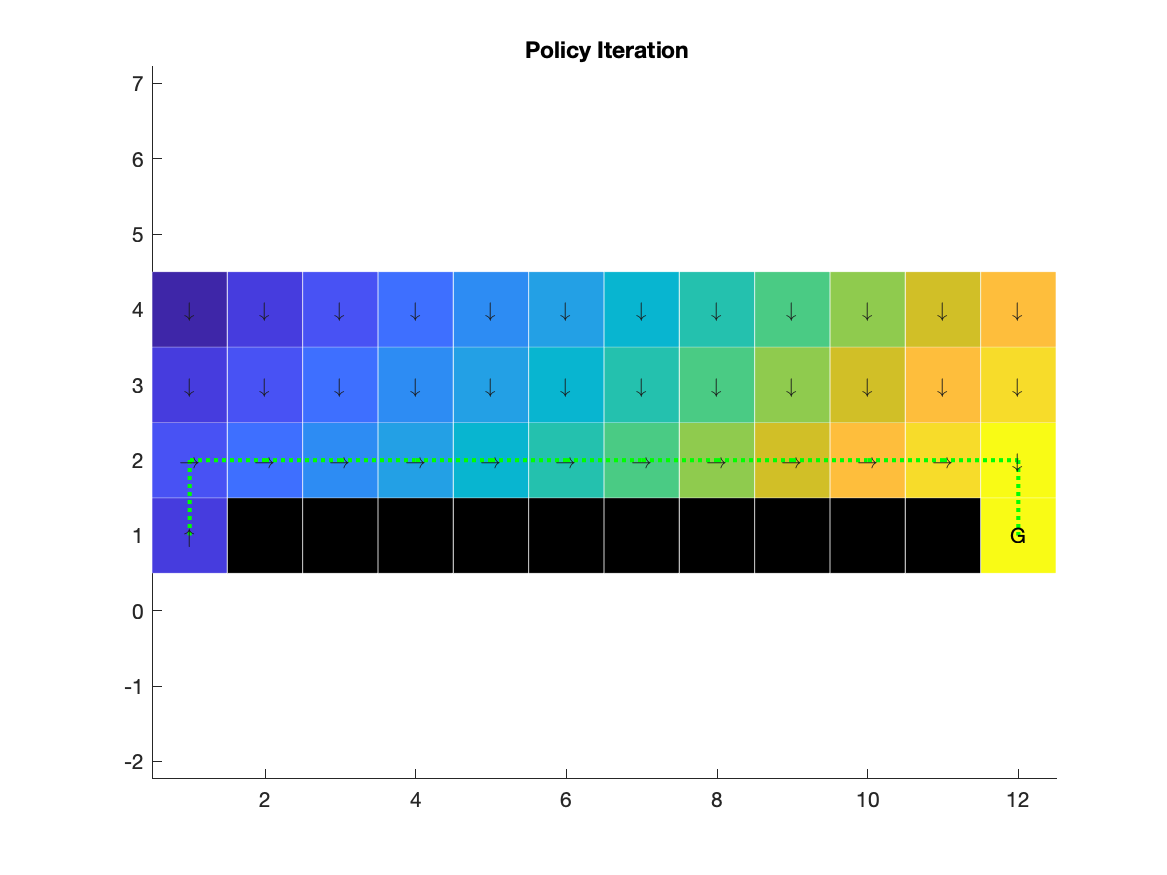
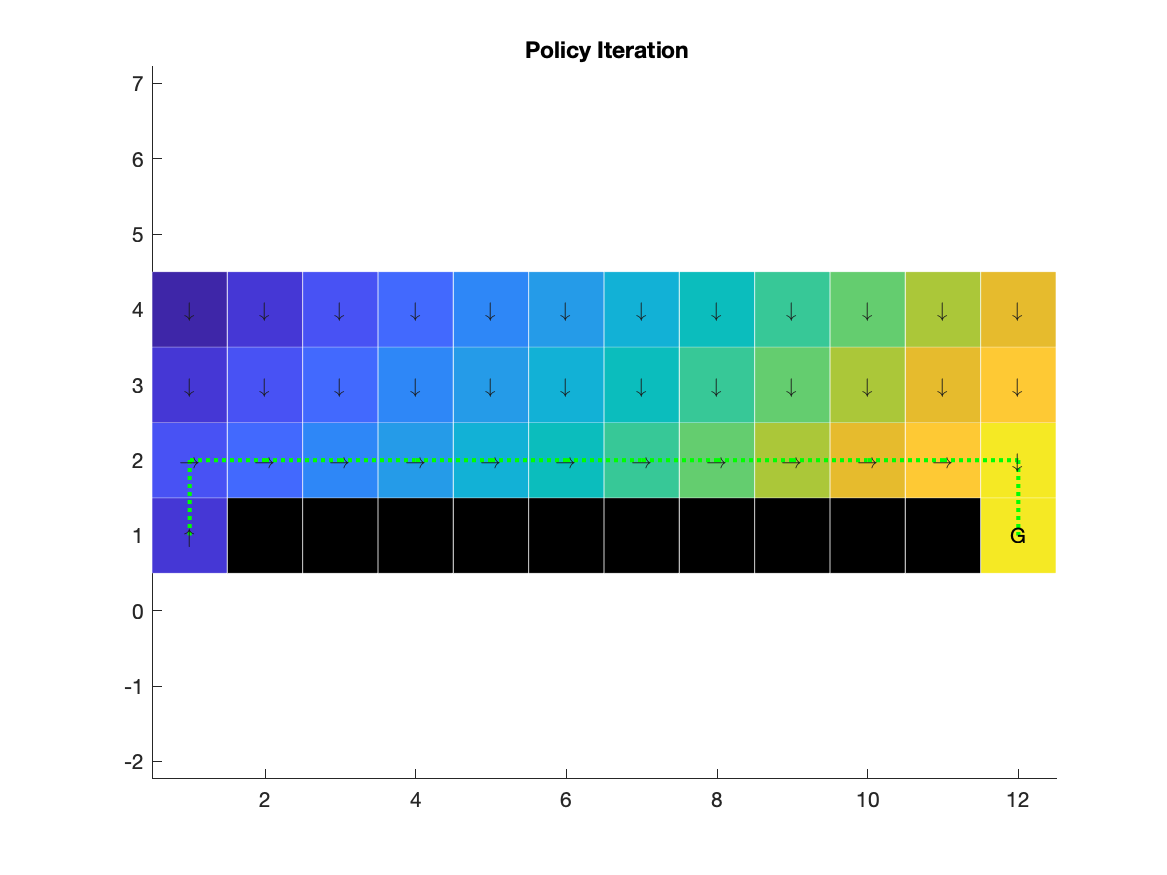
[gw]: MC and QL complete

Changed region(s): [[0.4319, 0.3086, 0.8638, 0.5863]]

diff --git a/aer1517_assignment2_files/p1_grid_world/algorithms/monte_carlo.m b/aer1517_assignment2_files/p1_grid_world/algorithms/monte_carlo.m
@@ -53,6 +53,12 @@ function [Q, policy_index] = ...
     % States
     STATES = mdp.STATES;
     ACTIONS = mdp.ACTIONS;
+    
+    % Start and end State 
+    s_start = world.user_defn.s_start;
+    s_goal = world.user_defn.s_goal;
+    s_start_index = state_index_lookup(STATES, s_start);
+    s_goal_index = state_index_lookup(STATES, s_goal);
 
     % Dimensionts
     num_states = size(STATES, 2);
@@ -65,37 +71,70 @@ function [Q, policy_index] = ...
     % Initialize Q
     Q = zeros(num_states, num_actions);
     
-    % [TODO] Initialize epsilon-soft policy
-    % policy = ...; % size: num_states x num_actions
+    % Initialize epsilon-soft policy
+    random_act_index = randi(num_actions, [num_states, 1]);
+    policy = zeros(num_states, num_actions);
+    for s = 1:1:num_states
+        selected_action = random_act_index(s);
+        policy(s, selected_action) = 1;
+    end
 
     %% On-policy Monte Carlo Algorithm (Section 2.9.3 of [1])
     for train_loop = 1:1:training_iterations
-        %% [TODO] Generate a training episode
-
-        while 
+        R = [];
+        episode_index = 0;
+        cur_state_index = randi(num_states);
+%         cur_state_index = s_start_index;
+        %% Generate a training episode
+%         while ( cur_state_index ~= s_start_index && ...
+%                 cur_state_index ~= s_goal_index && ...
+%                 episode_index < episode_length) || ...
+%                 episode_index < 1
+        while episode_index < episode_length
             episode_index = episode_index + 1;
-
             % Sample current epsilon-soft policy
-            action = ;
+            [action, soft_policy] = sample_es_policy(...
+                                    policy(cur_state_index, :), epsilon);
 
             % Interaction with environment
-            [next_state_index, ~, reward] = one_step_gw_model(world, cur_state_index, action, 1);
+            [next_state_index, ~, reward] = one_step_gw_model(world, ...
+                                            cur_state_index, action, 1);
 
             % Log data for the episode
-            % ...
+            R = [R; cur_state_index, action, reward];
+            
+            cur_state_index = next_state_index;
         end
 
+        % Cummulated Discounted Reward
+        prev_sum = 0;
+        R_cumu = R(:,3);
+        for it = size(R,1):-1:1
+            prev_sum = R_cumu(it) + gamma*prev_sum;
+            R_cumu(it) = prev_sum;
+        end
+        
         % Update Q(s,a)
-        % Q = ...;
+        Used = zeros(num_states, num_actions);
+        for it = 1: size(R,1)
+            if ~Used(R(it,1), R(it,2))
+                Q(R(it,1), R(it,2)) =  Q(R(it,1), R(it,2)) + ...
+                             omega * (R_cumu(it) -  Q(R(it,1), R(it,2)));
+                Used(R(it,1), R(it,2)) = 1;
+            end
+        end
 
-        %% [TODO] Update policy(s,a)
-        % policy = ...;
+        %% Update policy(s,a)
+        [~, pi] = max(Q,[],2);
+        policy = zeros(num_states, num_actions);
+        for s = 1:num_states
+            selected_action = pi(s);
+            policy(s, selected_action) = 1;
+        end
 
-        %% [TODO] Update the reward plot
-        % EpisodeTotalReturn = ...; % Sum of the reward obtained during the episode
+        %% Update the reward plot
+        EpisodeTotalReturn = sum(R(:, 3)); % Sum of the reward obtained during the episode
         plotter = UpdatePlot(plotter, EpisodeTotalReturn);
-        drawnow;
-        pause(0.1);
 
         %% Decrease the exploration
         % Set k_epsilon = 1 to maintain constant exploration
@@ -104,4 +143,42 @@ function [Q, policy_index] = ...
     
     % Return deterministic policy for plotting
     [~, policy_index] = max(policy, [], 2);
+    drawnow;
 end
+
+function [value, soft_policy] = sample_es_policy(policy, ep)
+    
+    size_u = length(policy);
+    soft_policy = policy;
+    cummu_dist = policy;
+    
+    for i = 1:size_u
+        if policy(i) == 1
+            soft_policy(i) = 1 - ep + ep/size_u;
+        else
+            soft_policy(i) = ep/size_u;
+        end
+        
+        if i > 1
+            cummu_dist(i) = soft_policy(i) + cummu_dist(i-1);
+        end
+    end
+    
+    rand_n = rand([1,1],'double');
+%     disp("Policy: " + num2str(soft_policy) + " Rand: " + num2str(rand_n));
+    
+    for i = 1:size_u
+        if rand_n <= cummu_dist(i)
+            value = i;
+            return
+        end
+    end
+    value = size_u;
+end
+
+    
+
+
+
+    
+

diff --git a/aer1517_assignment2_files/p1_grid_world/algorithms/q_learning.m b/aer1517_assignment2_files/p1_grid_world/algorithms/q_learning.m
@@ -69,40 +69,59 @@ function [Q, policy_index] = q_learning(world, epsilon, k_epsilon, omega, traini
     % Initialize Q
     Q = zeros(num_states, num_actions);
     
-    % [TODO] Initialize epsilon-soft policy
-    % policy = ...; % size: num_states x num_actions
+    % Initialize epsilon-soft policy
+    random_act_index = randi(num_actions, [num_states, 1]);
+    policy = zeros(num_states, num_actions);
+    for s = 1:1:num_states
+        selected_action = random_act_index(s);
+        policy(s, selected_action) = 1;
+    end
 
     %% Q-Learning Algorthim (Section 2.9 of [1])
     for train_loop = 1:1:training_iterations
         %% [TODO] Generate a training episode
-        % while ... % Episode termination criteria
-
+        R = [];
+        episode_index = 0;
+        cur_state_index = randi(num_states);
+        while episode_index < episode_length
+            episode_index = episode_index + 1;
             % Sample current epsilon-soft policy
-            % action = ...;
+            [action, soft_policy] = sample_es_policy(...
+                                    policy(cur_state_index, :), epsilon);
 
-            % Interaction with environment
-            % Note: 'next_state_noisy_index' below simulates state
+            % Interaction with environment% Note: 'next_state_noisy_index' below simulates state
             %       observarions corrupted with noise. Use this for
             %       Q-learning correspondingly for the last part of 
             %       Problem 2.2 (d)
             % [next_state_index, next_state_noisy_index, reward] = ...
             %    one_step_gw_model(world, cur_state_index, action, noise_alpha);
+            [next_state_index, ~, reward] = one_step_gw_model(world, ...
+                                            cur_state_index, action, 1);
 
             % Log data for the episode
-            % ...
+            R = [R; cur_state_index, action, reward];
 
             % Update Q(s,a)
-            % Q = ...;
-        % end
+            Q(cur_state_index, action) = Q(cur_state_index, action) +...
+              omega * (reward + gamma * max(Q(next_state_index, :)) -...
+                       Q(cur_state_index, action));
+            
+            cur_state_index = next_state_index;
+        end
 
         %% [TODO] Update policy(s,a)
-        % policy = ...;
+        [~, pi] = max(Q,[],2);
+        policy = zeros(num_states, num_actions);
+        for s = 1:num_states
+            selected_action = pi(s);
+            policy(s, selected_action) = 1;
+        end
 
         %% [TODO] Update the reward plot
-        % EpisodeTotalReturn = ...; %Sum of the reward obtained during the episode
+        EpisodeTotalReturn = sum(R(:, 3)); %Sum of the reward obtained during the episode
         plotter = UpdatePlot(plotter, EpisodeTotalReturn);
-        drawnow;
-        pause(0.1);
+%         drawnow;
+%         pause(0.1);
 
         %% Decrease the exploration
         %Set k_epsilon = 1 to maintain constant exploration
@@ -112,4 +131,34 @@ function [Q, policy_index] = q_learning(world, epsilon, k_epsilon, omega, traini
 
     % Return deterministic policy for plotting
     [~, policy_index] = max(policy, [], 2);
+end
+
+function [value, soft_policy] = sample_es_policy(policy, ep)
+    
+    size_u = length(policy);
+    soft_policy = policy;
+    cummu_dist = policy;
+    
+    for i = 1:size_u
+        if policy(i) == 1
+            soft_policy(i) = 1 - ep + ep/size_u;
+        else
+            soft_policy(i) = ep/size_u;
+        end
+        
+        if i > 1
+            cummu_dist(i) = soft_policy(i) + cummu_dist(i-1);
+        end
+    end
+    
+    rand_n = rand([1,1],'double');
+%     disp("Policy: " + num2str(soft_policy) + " Rand: " + num2str(rand_n));
+    
+    for i = 1:size_u
+        if rand_n <= cummu_dist(i)
+            value = i;
+            return
+        end
+    end
+    value = size_u;
 end

diff --git a/aer1517_assignment2_files/p1_grid_world/main_p1_gw.m b/aer1517_assignment2_files/p1_grid_world/main_p1_gw.m
@@ -129,15 +129,15 @@ plt_lp = visualize_gw_solution(world, v_lp, policy_lp, ...
 save(strcat(save_dir, 'lp_results.mat'), 'v_lp', 'policy_lp');
 saveas(plt_lp, strcat(save_dir, 'lp_plot.png'), 'png');
 
-%% Problem 2.1 (c): Monte Carlo
-% Instruction: Implement the on-policy Monte Carlo control algorithm (with
-% epsilon-soft policies) to solve the grid world algorithm
-% Reference: Section 2.9 of [1]
+% Problem 2.1 (c): Monte Carlo
+Instruction: Implement the on-policy Monte Carlo control algorithm (with
+epsilon-soft policies) to solve the grid world algorithm
+Reference: Section 2.9 of [1]
 
 % Algorithm parameters
-epsilon = 0.2; % epsilon-soft policy parameter (see Eqn. (2.40) in [1])
-k_epsilon = 1; % epsilon decay factor
-omega = 0.1; % learning rate for updating Q
+epsilon = 0.6; % epsilon-soft policy parameter (see Eqn. (2.40) in [1])
+k_epsilon = 0.95; % epsilon decay factor
+omega = 0.15; % learning rate for updating Q
 training_iterations = 500; % maximum number of training episodes
 episode_length = 500; % length of each training episode
 
